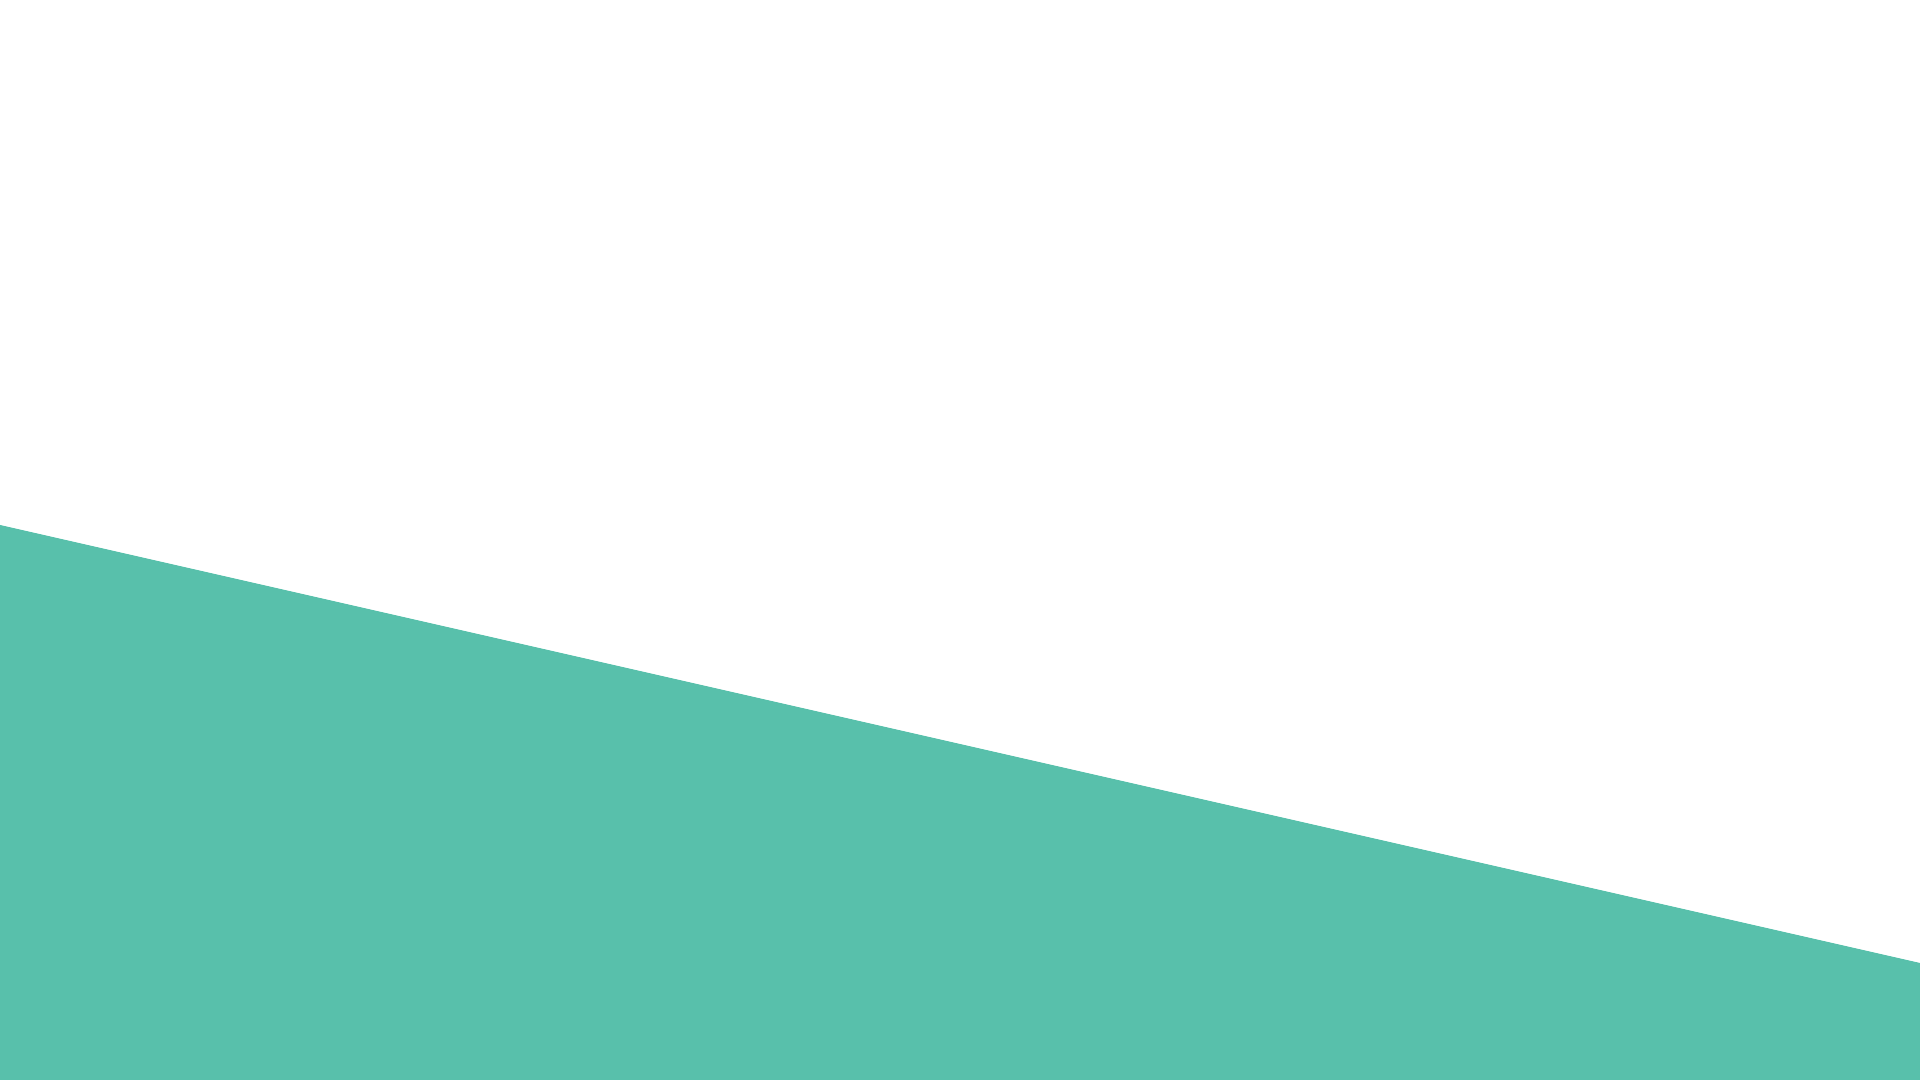
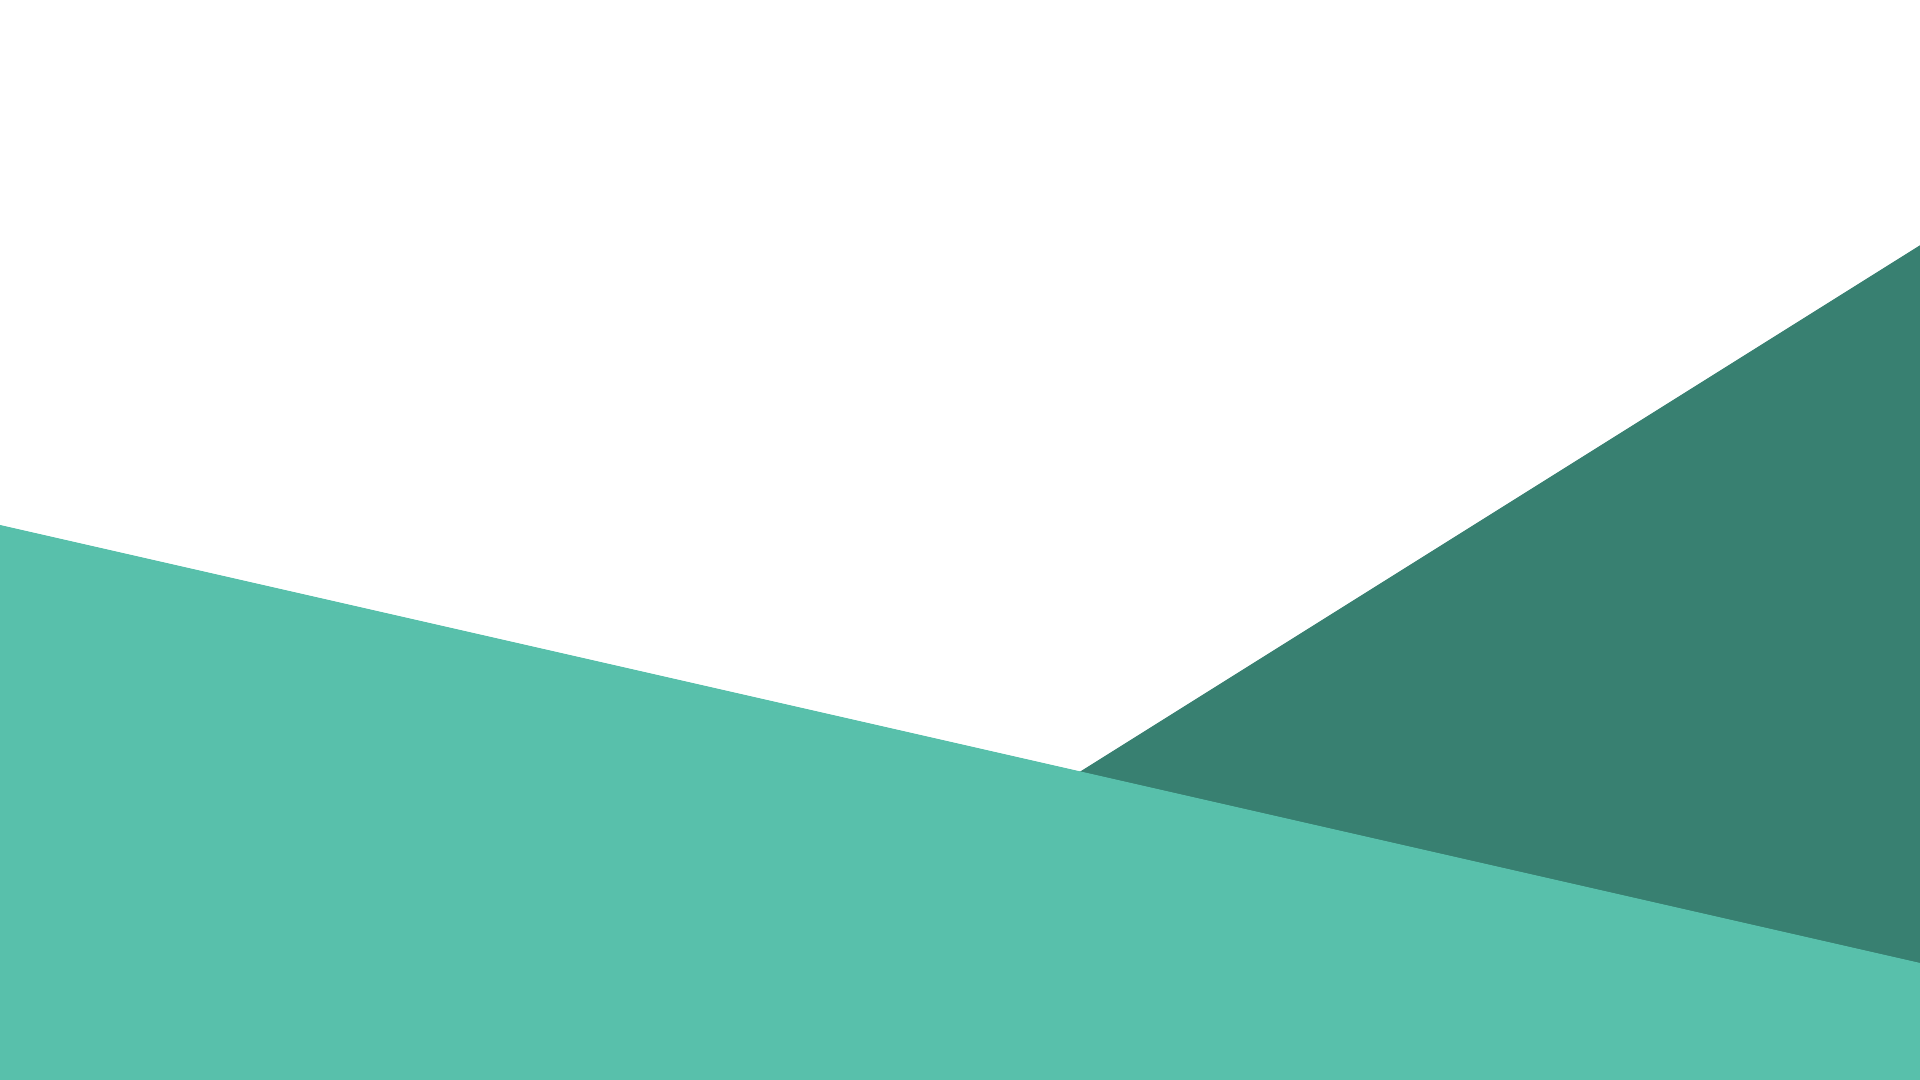
Atualização Home

Changed region(s): [[0.5625, 0.2139, 1.0, 0.8861]]

diff --git a/src/app/pages/home/home.component.ts b/src/app/pages/home/home.component.ts
@@ -8,14 +8,13 @@ import { Component, OnInit } from '@angular/core';
       <img class="monkey" src="../../../assets/Monkey.jpg">
     </div>
     <div class="text">
-      <h2>About the <span>Website</span></h2>
-      <p>Lorem ipsum dolor sit amet, consectetur adipiscing elit. Pellentesque lacinia felis vitae hendrerit ultricies. 
-        Vivamus aliquet enim libero, non rhoncus mi luctus ac. Pellentesque dignissim, risus in vestibulum pharetra, lorem 
-        orci suscipit ipsum, ac accumsan neque neque pretium augue. Donec et velit molestie felis sollicitudin maximus. Ut 
-        blandit lectus scelerisque diam maximus facilisis. Nam porttitor orci non fringilla maximus. Maecenas iaculis quam nec 
-        diam consequat, in molestie enim aliquam. Suspendisse molestie auctor sagittis. Vestibulum in scelerisque urna, et bibendum 
-        massa. Morbi imperdiet elit accumsan lacus consequat, egestas tempus leo porttitor. Donec lacinia ultricies nisi, eu 
-        aliquet risus scelerisque eget.</p>
+      <h2>Sobre o <span>Website</span></h2>
+      <p>O nosso site é focado em uma das funcionalidades do aplicativo Ossain, desenvolvido pelo BulbassaurGroup
+         ele tem como objetivo o envio e o recebimento de denúncias sobre o meio ambiente para ajudar a diminuir
+          o número de queimadas, descarte de entulho inadequado, despejo de resíduos tóxicos e diversos outros
+           crimes que prejudicam o planeta. Essa pagina foi feita para a tarefa de Programação Web II na escola
+            Professor Horácio Augusto da Silveira que consiste em criar e testar uma API criada no Beereceptor,
+              para testar a API faremos um sistema de registro e listagem de denuncias.</p>
     </div>
   </div>
   `,

diff --git a/src/app/pages/home/home.component.css b/src/app/pages/home/home.component.css
@@ -22,10 +22,11 @@ body {
 .text{
     margin-right: -15%;
     text-align: left;
-    width: 70%;
+    width: 55%;
 }
 
 .text h2{
+    font-weight: bold;
     color: #58c0ab;
     font-size: 45px;
 }
@@ -42,7 +43,7 @@ body {
 .fundoMonkey{
     position: relative;
     text-align: center;
-    background-color: #58c0ab;
+    background-color: #388071;
 }
 /* 
 .fundoGeral{

diff --git a/src/app/navbar/navbar.component.ts b/src/app/navbar/navbar.component.ts
@@ -9,7 +9,7 @@ import { Component, OnInit } from '@angular/core';
         <h2 class="logo" ><a routerLink="/">Ossain<span>App</span></a></h2>
         <ul>
           
-            <li><a routerLink="/">About</a></li>
+            <li><a routerLink="/">Sobre</a></li>
             <li><a routerLink="/">Denuncias</a></li>
 
         </ul>
